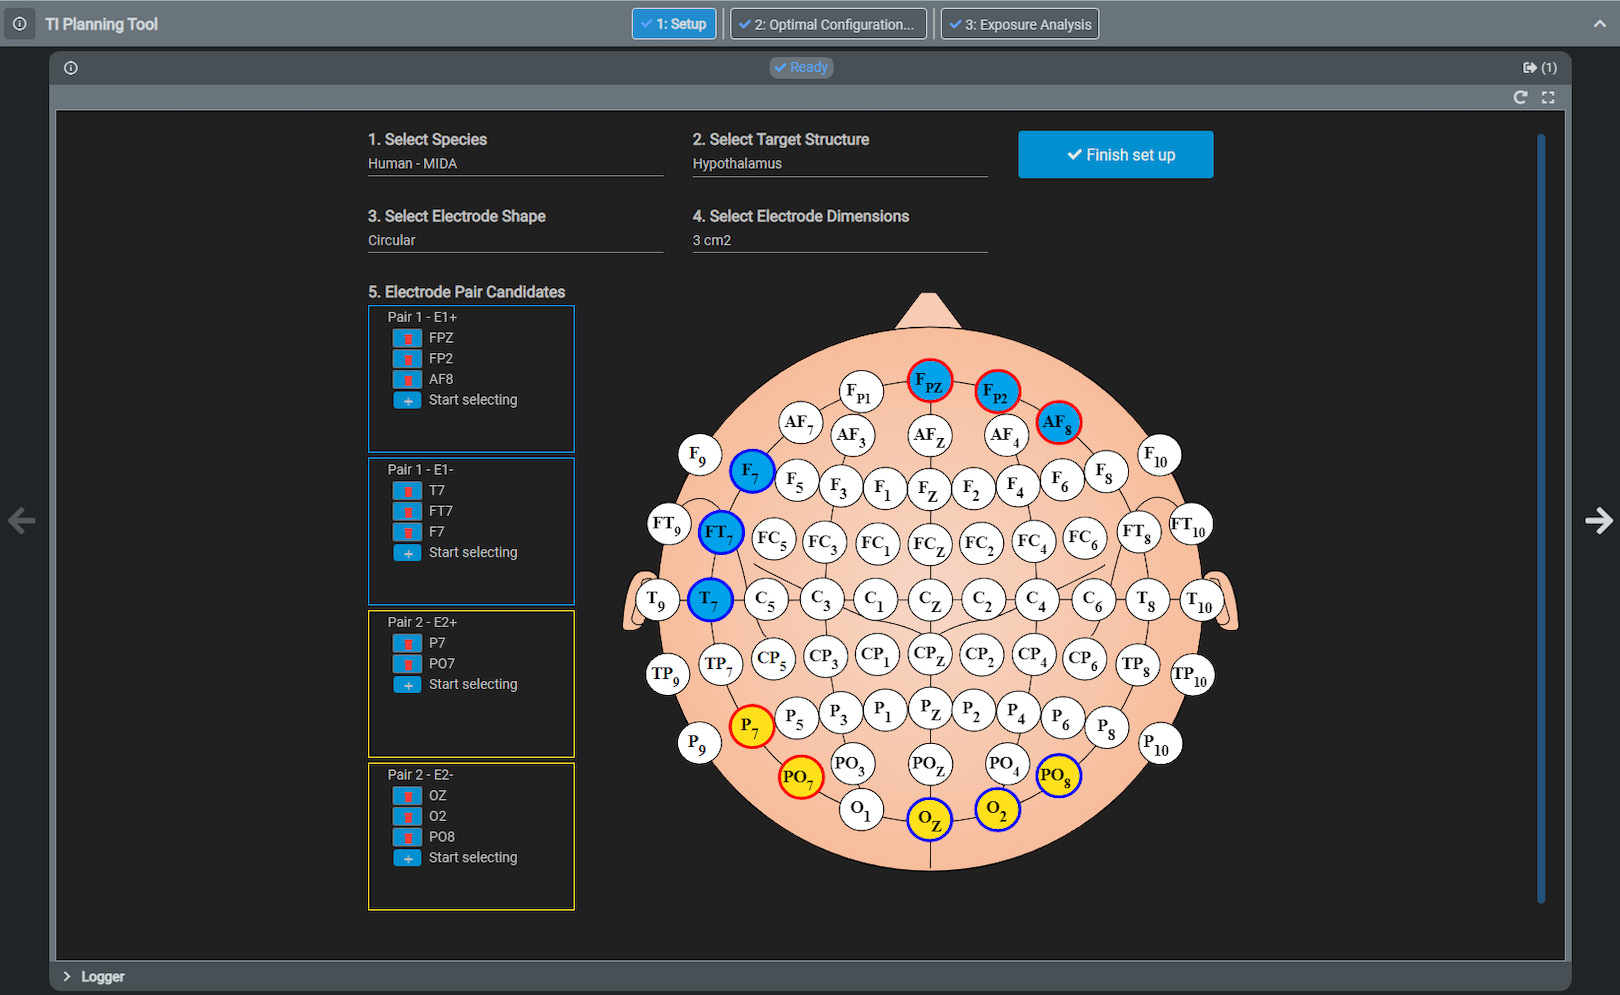
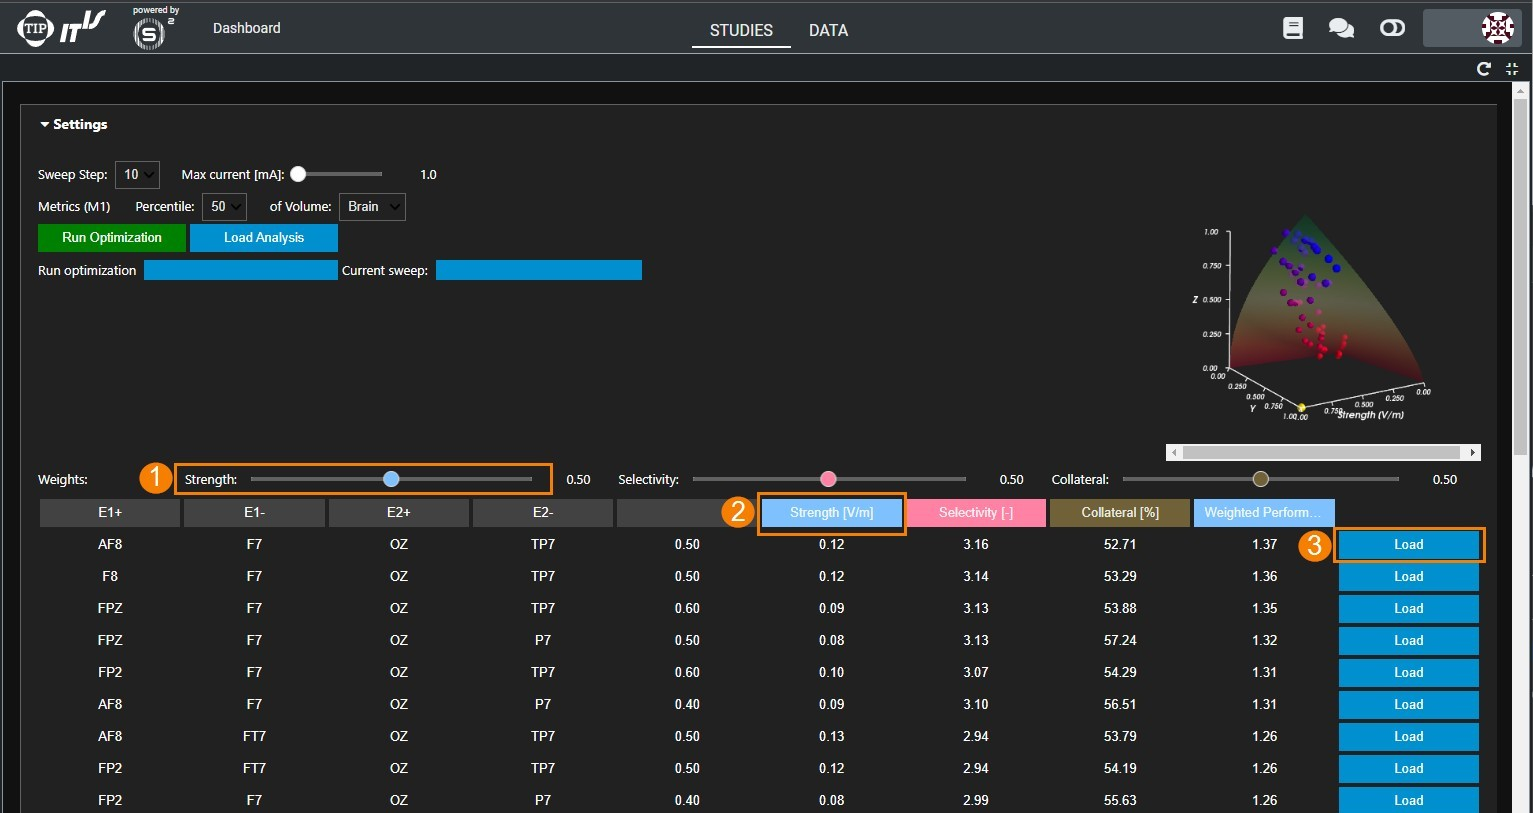
Merge pull request #49 from temporalinterference/testing
Testing

Pull request: Testing
TIP V5

diff --git a/content/cards/Publications/modal.md b/content/cards/Publications/modal.md
@@ -3,9 +3,9 @@ id: Publications
 ---
 # Selected Publications
 
-Missey F *et al. Non-invasive temporal interference stimulation of the hippocampus suppresses epileptic biomarkers in patients with Epilepsy: Biophysical differences between kilohertz and amplitude modulated stimulation.* Brain Stimul. 2026; 19(1):102981. [doi: 10.1016/j.brs.2025.11.008](https://www.sciencedirect.com/science/article/pii/S1935861X25003791?via%3Dihub)
+Missey F *et al. Non-invasive temporal interference stimulation of the hippocampus suppresses epileptic biomarkers in patients with Epilepsy: Biophysical differences between kilohertz and amplitude modulated stimulation.* Brain Stimul. 2026; 19(1):102981. [doi:10.1016/j.brs.2025.11.008](https://www.sciencedirect.com/science/article/pii/S1935861X25003791?via%3Dihub)
 
-Antal A *et al. Low intensity transcranial electric stimulation: Safety, ethical, legal regulatory and application guidelines (2017–2025: An update) – endorsed by the European Society for Brain Stimulation (ESBS) and by the International Federation for Clinical Neurophysiology (IFCN).* Clin Neurophysiol. 2025. [doi.org/10.1016/j.clinph.2025.2111436](https://www.sciencedirect.com/science/article/pii/S138824572501288X?via%3Dihub)
+Antal A *et al. Low intensity transcranial electric stimulation: Safety, ethical, legal regulatory and application guidelines (2017–2025: An update) – endorsed by the European Society for Brain Stimulation (ESBS) and by the International Federation for Clinical Neurophysiology (IFCN).* Clin Neurophysiol. 2025. [doi:10.1016/j.clinph.2025.2111436](https://www.sciencedirect.com/science/article/pii/S138824572501288X?via%3Dihub)
 
 Botzanowski B *et al. Focal control of non-invasive deep brain stimulation using multipolar temporal interference.* Bioelectron Med. 2025; 11:7. [doi:10.1186/s42234-025-00169-6](https://bioelecmed.biomedcentral.com/articles/10.1186/s42234-025-00169-6)
 
@@ -13,67 +13,69 @@ Cassarà AM *et al. Recommendations for the safe application of temporal interfe
 
 Cassarà AM *et al. Recommendations for the safe application of temporal interference stimulation in the human brain part II: Biophysics, dosimetry, and safety recommendations.* Bioelectromagnetics. 2025; 46:e22536. [doi:10.1002/bem.22536](https://onlinelibrary.wiley.com/doi/10.1002/bem.22536)
 
-Karimi F *et al. Safety of Non-invasive brain stimulation in patients with implants: A computational risk assessment.* J Neural Eng. 2025; 22:016039. [doi: 10.1088/1741-2552/ad8efa](https://iopscience.iop.org/article/10.1088/1741-2552/ad8efa)
+Demchenko I *et al. Human applications of transcranial temporal interference stimulation: A systematic review.* Brain Stimul. 2025; 18(6):2054–2066. [doi:10.1016/j.brs.2025.10.023](https://www.brainstimjrnl.com/article/S1935-861X(25)00369-9/fulltext)
 
-Lamoš M *et al. Noninvasive temporal interference stimulation of the subthalamic nucleus in Parkinson’s disease reduces beta activity.* Mov. Disord. 2025; 40(6):1051–1060. [doi: 10.1002/mds.30134](https://movementdisorders.onlinelibrary.wiley.com/doi/pdfdirect/10.1002/mds.30134)
+Karimi F *et al. Safety of non-invasive brain stimulation in patients with implants: A computational risk assessment.* J Neural Eng. 2025; 22:016039. [doi:10.1088/1741-2552/ad8efa](https://iopscience.iop.org/article/10.1088/1741-2552/ad8efa)
 
-Mansourinezhad P *et al. Systematic review of experimental studies in humans on transcranial temporal interference stimulation.* J Neural Eng. 2025; 22:051001. [doi: 10.1088/1741-2552/ae0524](https://iopscience.iop.org/article/10.1088/1741-2552/ae0524)
+Lamoš M *et al. Noninvasive temporal interference stimulation of the subthalamic nucleus in Parkinson’s disease reduces beta activity.* Mov. Disord. 2025; 40(6):1051–1060. [doi:10.1002/mds.30134](https://movementdisorders.onlinelibrary.wiley.com/doi/pdfdirect/10.1002/mds.30134)
 
-Opančar A *et al. The same biophysical mechanism is involved in both temporal interference and direct kHz stimulation of peripheral nerves.* Nat Commun. 2025; 16:9006 [doi.org/10.1038/s41467-025-64059-w](https://www.nature.com/articles/s41467-025-64059-w)
+Mansourinezhad P *et al. Systematic review of experimental studies in humans on transcranial temporal interference stimulation.* J Neural Eng. 2025; 22:051001. [doi:10.1088/1741-2552/ae0524](https://iopscience.iop.org/article/10.1088/1741-2552/ae0524)
 
-Peterchev AV. *One's trash is another's treasure: Subthreshold kilohertz brain modulation as a side effect and as an intervention.* Brain Stimul. 2025; 18(3):P622-623. [doi: 10.1016/j.brs.2025.03.004](https://www.brainstimjrnl.com/article/S1935-861X(25)00057-9/fulltext)
+Opančar A *et al. The same biophysical mechanism is involved in both temporal interference and direct kHz stimulation of peripheral nerves.* Nat Commun. 2025; 16:9006 [doi:10.1038/s41467-025-64059-w](https://www.nature.com/articles/s41467-025-64059-w)
 
-Rektorová I *et al. Non-invasive brain stimulation: Current and future applications in neurology.* Nature Rev Neurol. 2025; 21:669–686. [doi: 10.1038/s41582-025-01137-z](https://www.nature.com/articles/s41582-025-01137-z)
+Peterchev AV. *One's trash is another's treasure: Subthreshold kilohertz brain modulation as a side effect and as an intervention.* Brain Stimul. 2025; 18(3):P622-623. [doi:10.1016/j.brs.2025.03.004](https://www.brainstimjrnl.com/article/S1935-861X(25)00057-9/fulltext)
 
-Semenov I *et al. Excitation and polarization of isolated neurons by high-frequency sine waves for temporal interference stimulation.* Cell Rep Phys Sci. 2025; 6:102660. [doi: 10.1016/j.xcrp.[phone redacted]](https://www.sciencedirect.com/science/article/pii/S2666386425002590)
+Rektorová I *et al. Non-invasive brain stimulation: Current and future applications in neurology.* Nature Rev Neurol. 2025; 21:669–686. [doi:10.1038/s41582-025-01137-z](https://www.nature.com/articles/s41582-025-01137-z)
 
-Wang M *et al. Transcranial temporal interference stimulation precisely targets deep brain regions to regulate eye movements.* Neurosci Bull. 2025; 41:1390–1402. [doi: 10.1007/s12264-025-01387-3](https://link.springer.com/article/10.1007/s12264-025-01387-3)
+Semenov I *et al. Excitation and polarization of isolated neurons by high-frequency sine waves for temporal interference stimulation.* Cell Rep Phys Sci. 2025; 6:102660. [doi:10.1016/j.xcrp.[phone redacted]](https://www.sciencedirect.com/science/article/pii/S2666386425002590)
 
-Caldas-Martinez S *et al. Cell-specific effects of temporal interference stimulation on cortical function.* Commun Biol. 2024; 7:1076. [doi: 10.1038/s42003-[phone redacted]](https://www.nature.com/articles/s42003-[phone redacted]-y)
+Wang M *et al. Transcranial temporal interference stimulation precisely targets deep brain regions to regulate eye movements.* Neurosci Bull. 2025; 41:1390–1402. [doi:10.1007/s12264-025-01387-3](https://link.springer.com/article/10.1007/s12264-025-01387-3)
 
-Liu R *et al. Temporal interference stimulation targets deep primate brain.* NeuroImage. 2024; 291:120581. [doi: 10.1016/j.neuroimage.2024.120581](https://www.sciencedirect.com/science/article/pii/S1053811924000764)
+Caldas-Martinez S *et al. Cell-specific effects of temporal interference stimulation on cortical function.* Commun Biol. 2024; 7:1076. [doi:10.1038/s42003-[phone redacted]](https://www.nature.com/articles/s42003-[phone redacted]-y)
 
-Vassiliadis P *et al. Safety, tolerability and blinding efficiency of non-invasive deep transcranial temporal interference stimulation: First experience from more than 250 sessions.* J Neural Eng. 2024; 21:024001. [doi: 10.1088/1741-2552/ad2d32](https://iopscience.iop.org/article/10.1088/1741-2552/ad2d32)
+Liu R *et al. Temporal interference stimulation targets deep primate brain.* NeuroImage. 2024; 291:120581. [doi:10.1016/j.neuroimage.2024.120581](https://www.sciencedirect.com/science/article/pii/S1053811924000764)
 
-Vieira PG *et al. Temporal interference stimulation disrupts spike timing in the primate brain.* Nature Commun. 2024; 15:4558. [doi: 10.1038/s41467-024-48962](https://www.nature.com/articles/s41467-024-48962-2)
+Vassiliadis P *et al. Safety, tolerability and blinding efficiency of non-invasive deep transcranial temporal interference stimulation: First experience from more than 250 sessions.* J Neural Eng. 2024; 21:024001. [doi:10.1088/1741-2552/ad2d32](https://iopscience.iop.org/article/10.1088/1741-2552/ad2d32)
 
-Wang Y *et al. The safety and efficacy of applying a high-current temporal interference electrical stimulation in humans.* Front Hum Neurosci. 2024; 18:1484593. [doi: 10.3389/fnhum.2024.1484593](https://www.frontiersin.org/journals/human-neuroscience/articles/10.3389/fnhum.2024.1484593/full)
+Vieira PG *et al. Temporal interference stimulation disrupts spike timing in the primate brain.* Nature Commun. 2024; 15:4558. [doi:10.1038/s41467-024-48962](https://www.nature.com/articles/s41467-024-48962-2)
 
-Budde RB *et al. Temporal interference current stimulation in peripheral nerves is not driven by envelope extraction.* J Neural Eng. 2023; 20(2):026041. [doi: 10.1088/1741-2552/acc6f1](https://iopscience.iop.org/article/10.1088/1741-2552/acc6f1/meta)
+Wang Y *et al. The safety and efficacy of applying a high-current temporal interference electrical stimulation in humans.* Front Hum Neurosci. 2024; 18:1484593. [doi:10.3389/fnhum.2024.1484593](https://www.frontiersin.org/journals/human-neuroscience/articles/10.3389/fnhum.2024.1484593/full)
 
-Iszak K *et al. Why temporal inference stimulation may fail in the human brain: A pilot research study.* Biomedicines. 2023; 11(7):1813. [doi: 10.3390/biomedicines11071813](https://www.mdpi.com/2227-9059/11/7/1813)
+Budde RB *et al. Temporal interference current stimulation in peripheral nerves is not driven by envelope extraction.* J Neural Eng. 2023; 20(2):026041. [doi:10.1088/1741-2552/acc6f1](https://iopscience.iop.org/article/10.1088/1741-2552/acc6f1/meta)
 
-Violante IR *et al. Non-invasive temporal interference electrical stimuation of the human hippocampus.* Nat Neurosci. 2023; 26:1994–2004. [doi: 10.1038/s41593-023-01456-8](https://www.nature.com/articles/s41593-023-01456-8)
+Iszak K *et al. Why temporal inference stimulation may fail in the human brain: A pilot research study.* Biomedicines. 2023; 11(7):1813. [doi:10.3390/biomedicines11071813](https://www.mdpi.com/2227-9059/11/7/1813)
 
-Wessel MJ *et al. Noninvasive theta-burst stimulation of the human striatum enhances striatal activity and motor skill learning.* Nat Neurosci. 2023; 26:2005–2016. [doi: 10.1038/s41593-023-01457-7](https://www.nature.com/articles/s41593-023-01457-7)
+Violante IR *et al. Non-invasive temporal interference electrical stimuation of the human hippocampus.* Nat Neurosci. 2023; 26:1994–2004. [doi:10.1038/s41593-023-01456-8](https://www.nature.com/articles/s41593-023-01456-8)
 
-Acerbo E *et al. Focal non-invasive deep-brain stimulation with temporal interference for the suppression of epileptic biomarkers.* Front Neurosci. 2022; 16:945221. [doi: 10.3389/fnins.2022.945221](https://www.frontiersin.org/journals/neuroscience/articles/10.3389/fnins.2022.945221/full)
+Wessel MJ *et al. Noninvasive theta-burst stimulation of the human striatum enhances striatal activity and motor skill learning.* Nat Neurosci. 2023; 26:2005–2016. [doi:10.1038/s41593-023-01457-7](https://www.nature.com/articles/s41593-023-01457-7)
 
-Botzanowski B *et al. Noninvasive stimulation of peripheral nerves using temporally-interfering electrical fields.* Adv Healthc Mater. 2022; 11(17):e2200075. [doi: 10.1002/adhm.202200075](https://onlinelibrary.wiley.com/doi/full/10.1002/adhm.202200075)
+Acerbo E *et al. Focal non-invasive deep-brain stimulation with temporal interference for the suppression of epileptic biomarkers.* Front Neurosci. 2022; 16:945221. [doi:10.3389/fnins.2022.945221](https://www.frontiersin.org/journals/neuroscience/articles/10.3389/fnins.2022.945221/full)
 
-Lee S *et al. Multipair transcranial temporal interference stimulation for improved focalized stimulation of deep brain regions: A simulation study.* Comput Biol Med. 2022; 143:105337. [doi: 10.1016/j.compbiomed.2022.105337](https://www.sciencedirect.com/science/article/abs/pii/S0010482522001299?via%3Dihub)
+Botzanowski B *et al. Noninvasive stimulation of peripheral nerves using temporally-interfering electrical fields.* Adv Healthc Mater. 2022; 11(17):e2200075. [doi:10.1002/adhm.202200075](https://onlinelibrary.wiley.com/doi/full/10.1002/adhm.202200075)
 
-Liu R *et al. A noninvasive deep brain stimulation method via temporal-spatial interference magneto-acoustic effect: Simulation and experimental validation.* IEEE Trans Ultrason Ferroelectr Freq Control. 2022; 69(8):2474-2483. [doi: 10.1109/TUFFC.2022.3187748](https://ieeexplore.ieee.org/document/9812716)
+Lee S *et al. Multipair transcranial temporal interference stimulation for improved focalized stimulation of deep brain regions: A simulation study.* Comput Biol Med. 2022; 143:105337. [doi:10.1016/j.compbiomed.2022.105337](https://www.sciencedirect.com/science/article/abs/pii/S0010482522001299?via%3Dihub)
 
-Piao Y *et al. Safety evaluation of employing temporal interference transcranial alternating current stimulation in human studies.* Brain Sci. 2022; 12(9):1194. [doi: 10.3390/brainsci12091194](https://www.mdpi.com/2076-3425/12/9/1194)
+Liu R *et al. A noninvasive deep brain stimulation method via temporal-spatial interference magneto-acoustic effect: Simulation and experimental validation.* IEEE Trans Ultrason Ferroelectr Freq Control. 2022; 69(8):2474-2483. [doi:10.1109/TUFFC.2022.3187748](https://ieeexplore.ieee.org/document/9812716)
 
-Esmaeilpour Z *et al. Temporal interference stimulation targets deep brain regions by modulating neural oscillations.* Brain Stimul. 2021; 14(1):55-65. [doi: 10.1016/j.brs.2020.11.007](https://www.brainstimjrnl.com/article/S1935-861X(20)30290-4/fulltext)
+Piao Y *et al. Safety evaluation of employing temporal interference transcranial alternating current stimulation in human studies.* Brain Sci. 2022; 12(9):1194. [doi:10.3390/brainsci12091194](https://www.mdpi.com/2076-3425/12/9/1194)
 
-Gomez-Tames J *et al. Multiscale computational model reveals nerve response in a mouse model for temporal interference brain stimulation.* Front Neurosci. 2021; 15:684465. [doi: 10.3389/fnins.2021.684465](https://www.frontiersin.org/journals/neuroscience/articles/10.3389/fnins.2021.684465/full)
+Esmaeilpour Z *et al. Temporal interference stimulation targets deep brain regions by modulating neural oscillations.* Brain Stimul. 2021; 14(1):55-65. [doi:10.1016/j.brs.2020.11.007](https://www.brainstimjrnl.com/article/S1935-861X(20)30290-4/fulltext)
 
-Howell B, McIntyre CC. *Feasibility of interferential and pulsed transcranial electrical stimulation for neuromodulation at the human scale.* Neuromodulation. 2021; 24(5):843-853. [doi: 10.1111/ner.13137](https://www.neuromodulationjournal.org/article/S1094-7159(21)06186-9/abstract)
+Gomez-Tames J *et al. Multiscale computational model reveals nerve response in a mouse model for temporal interference brain stimulation.* Front Neurosci. 2021; 15:684465. [doi:10.3389/fnins.2021.684465](https://www.frontiersin.org/journals/neuroscience/articles/10.3389/fnins.2021.684465/full)
 
-Missey F *et al. Orientation of temporal interference for non-invasive deep brain stimulation in epilepsy.* Front Neurosci. 2021; 15:633988. [doi: 10.3389/fnins.2021.633988](https://www.frontiersin.org/journals/neuroscience/articles/10.3389/fnins.2021.633988/full)
+Howell B, McIntyre CC. *Feasibility of interferential and pulsed transcranial electrical stimulation for neuromodulation at the human scale.* Neuromodulation. 2021; 24(5):843-853. [doi:10.1111/ner.13137](https://www.neuromodulationjournal.org/article/S1094-7159(21)06186-9/abstract)
 
-Sunshine MD *et al. Restoration of breathing after opioid overdose and spinal cord injury using temporal interference stimulation.* Commun Biol. 2021; 4(1):107. [doi: 10.1038/s42003-020-01604-x](https://www.nature.com/articles/s42003-020-01604-x)
+Missey F *et al. Orientation of temporal interference for non-invasive deep brain stimulation in epilepsy.* Front Neurosci. 2021; 15:633988. [doi:10.3389/fnins.2021.633988](https://www.frontiersin.org/journals/neuroscience/articles/10.3389/fnins.2021.633988/full)
 
-von Conta J *et al. Interindividual variability of electric fields during transcranial temporal interference stimulation (tTIS).* Scientific Reports. 2021; 11:20357. [doi.org/10.1038/s41598-021-99749-0](https://www.nature.com/articles/s41598-021-99749-0)
+Sunshine MD *et al. Restoration of breathing after opioid overdose and spinal cord injury using temporal interference stimulation.* Commun Biol. 2021; 4(1):107. [doi:10.1038/s42003-020-01604-x](https://www.nature.com/articles/s42003-020-01604-x)
 
-Cao J, Grover P. *STIMULUS: Noninvasive dynamic patterns of neurostimulation using spatio-temporal interference.* IEEE Trans Biomed Eng. 2020; 67(3):726-737. [doi: 10.1109/TBME.2019.2919912](https://ieeexplore.ieee.org/document/8726149)
+von Conta J *et al. Interindividual variability of electric fields during transcranial temporal interference stimulation (tTIS).* Scientific Reports. 2021; 11:20357. [doi:10.1038/s41598-021-99749-0](https://www.nature.com/articles/s41598-021-99749-0)
 
-Li J *et al. Analytical and experimental investigation of temporal interference for selective neuromuscular activation.* IEEE Trans Neural Syst Rehabil Eng. 2020; 28(12):3100-3112. [doi: 10.1109/TNSRE.2020.3038025](https://ieeexplore.ieee.org/document/9259118)
+Cao J, Grover P. *STIMULUS: Noninvasive dynamic patterns of neurostimulation using spatio-temporal interference.* IEEE Trans Biomed Eng. 2020; 67(3):726-737. [doi:10.1109/TBME.2019.2919912](https://ieeexplore.ieee.org/document/8726149)
 
-Mirzakhalili E *et al. Biophysics of temporal interference stimulation.* Cell Syst. 2020; 11(6):557-572.e5. [doi: 10.1016/j.cels.[phone redacted]](https://www.sciencedirect.com/science/article/pii/S2405471220303720)
+Li J *et al. Analytical and experimental investigation of temporal interference for selective neuromuscular activation.* IEEE Trans Neural Syst Rehabil Eng. 2020; 28(12):3100-3112. [doi:10.1109/TNSRE.2020.3038025](https://ieeexplore.ieee.org/document/9259118)
+
+Mirzakhalili E *et al. Biophysics of temporal interference stimulation.* Cell Syst. 2020; 11(6):557-572.e5. [doi:10.1016/j.cels.[phone redacted]](https://www.sciencedirect.com/science/article/pii/S2405471220303720)
 
 Alekseichuk I *et al. Comparative modeling of transcranial magnetic and electric stimulation in mouse, monkey, and human.* Neuroimage. 2019; 194:136‐148. [doi:10.1016/j.neuroimage.2019.03.044](https://www.sciencedirect.com/science/article/abs/pii/S1053811919302320?via%3Dihub/)
 

diff --git a/content/cards/TIP/modal.md b/content/cards/TIP/modal.md
@@ -1,62 +1,78 @@
 ---
 id: TIP
 ---
-# TIP V4.0
+# TIP V5.0
 
 ## Temporal Interference Planning Tool of IT'IS
-The Temporal Interference Planning (TIP) tool Version 4.0 of the [IT'IS Foundation](https://itis.swiss) developed for TIBS-R provides an advanced modeling pipeline for electrode placement and stimulation targeting with the TIBS-R system, offering cloud-based simulations and interactive visualizations. Read more on the [IT'IS TI Planning webpage](https://itis.swiss/tools-and-systems/ti-planning/overview/).
 
-The latest version of our powerful TI stimulation planning tool brings major innovations to researchers worldwide:
+The Temporal Interference Planning (TIP) tool of the [IT'IS Foundation](https://itis.swiss), developed for TIBS-R, provides an advanced planning environment for temporal interference (TI) stimulation. TIP supports electrode placement, stimulation targeting, electromagnetic simulations, optimization, visualization, and analysis using established and personalized anatomical human and animal models. Read more on the [IT'IS TI Planning webpage](https://itis.swiss/tools-and-systems/ti-planning/overview/).
 
-* Automated Personalization: Our deep-learning model now automatically detects anatomical fiducials for consistent 10-10 electrode placement—no manual steps required
-  
-* New Optimization Engine: The surrogate-model-based (SuMo) optimizer uses artificial intelligence (AI) to explore the full electrode configuration space, delivering better results faster
-  
-* Speed and Performance Gains: Optimization is now twice as fast on average, with improved solution quality
-  
-* Improved Workflow: From drag-and-drop model upload to streamlined analysis, TIP V4.0 is more intuitive than ever
+TIP enables researchers to design and validate TI stimulation protocols without requiring deep expertise in computational modeling. It supports classic TI, multi-channel TI, and phase-modulation TI workflows, and is fully compatible with the TIBS-R system.
 
-## Personalized Optimization
+TIP V5.0 builds on the personalization and optimization capabilities introduced in previous versions and adds three major advances:
+
+* Privacy-First Personalization: Magnetic resonance imaging (MRI) processing can now be performed locally using the new offline personalizer. Raw MRI data stay on the user's computer; only the anonymized, segmented model is uploaded to TIP for cloud-based simulation and optimization.
+
+* Full Sim4Life Workbench Access: The Exposure Analysis step now provides access to a complete Sim4Life workbench, including modeling, simulation, and analysis functionality, with ready-to-use template projects for precomputed and personalized models.
+
+* ~5× Faster Optimization: The surrogate-model-based SuMo optimizer now runs approximately five times faster, reducing typical optimization times from about one hour to 5–10 minutes.
+
+TIP remains available through the TI Solutions Early Adopter Program and IT'IS research partnerships. Precomputed models can be explored without personalized simulation costs; personalized models require AWS simulation costs.
+
+## Privacy-First Personalization
 
 {{< modal-image tip_1.jpg >}}
 {{< /modal-image >}}
 
-Incorporate magnetic resonance imaging (MRI) and diffusion tensor imaging (DTI) data for individualized results, using automatic image processing to create tissue models with isotropic or anisotropic conductivity for simulations.
+Use subject-specific MRI and optional diffusion tensor imaging data to create personalized anatomical models for TI planning.
+
+With TIP V5.0, MRI processing can run locally using the offline personalizer. Raw MRI data stay on the user's computer; only the anonymized, segmented model is uploaded to TIP.
 
 ## Electromagnetic Simulations
 
 {{< modal-image tip_2.jpg >}}
 {{< /modal-image >}}
 
-Generate isotropic or anisotropic simulations and export optimization-ready files.
+Generate isotropic or anisotropic electromagnetic simulations using precomputed or personalized models.
+
+TIP prepares the field data needed for optimization, exposure assessment, and downstream analysis.
 
 ## Configuration
 
 {{< modal-image tip_3.jpg >}}
 {{< /modal-image >}}
 
-Select species, stimulation target, and electrode locations defined on the 10-10 system to narrow the configuration search space.
+Select the anatomical model, stimulation target, and threshold definitions.
+
+Standardized 10–10 electrode placement supports reproducible planning while keeping the optimization search space manageable.
 
 ## Optimal Configuration Identification
 
 {{< modal-image tip_4.jpg >}}
 {{< /modal-image >}}
 
-Explore high-performing exposure parameters with metrics and visualizations, and easily document findings.
+Identify high-performing electrode configurations with the SuMo optimizer.
 
-## Visualization
+In TIP V5.0, optimization is approximately five times faster, reducing typical runtimes from about one hour to 5–10 minutes.
+
+## Visualization and Post-Processing
 
 {{< modal-image tip_5.jpg >}}
 {{< /modal-image >}}
 
-Depict advanced phase modulation schemes and pulse shapes of the complete electric field and its x-, y-, and z-components.
+Visualize stimulation fields, phase modulation, pulse shapes, and field components.
 
-## Analysis
+
+## Full Sim4Life Exposure Analysis
 
 {{< modal-image tip_6.jpg >}}
 {{< /modal-image >}}
 
-Visualize and analyze selected conditions using Sim4Life (see [www.sim4life.swiss](https://sim4life.swiss/)).
+TIP V5.0 provides ready-to-use template projects with anatomical models, targets, electrodes, and preconfigured simulations for deeper exposure analysis in a full-featured Sim4Life instance, including rendering, masking, streamlines, derived quantities, and reporting. 
+
+## Access
+
+TIP V5.0 is available to members of the TI Solutions Early Adopter Program and IT'IS research partners. For access, support, or further information, contact [[email redacted]](mailto:[email redacted]) or [[email redacted]](mailto:[email redacted]).
 
 ## Disclaimer
 

diff --git a/content/cards/news-20260430-TIP-V5-0/modal.md b/content/cards/news-20260430-TIP-V5-0/modal.md
@@ -1,0 +1,17 @@
+---
+id: news-20260430-TIP-V5-0
+---
+# TIP V5.0 is Here – Privacy First, Full Sim4Life Power, 5× Faster
+
+Our partner [IT'IS](https://itis.swiss) has released the latest version of their powerful {{< modal-link TIP >}}Temporal Interference Planning tool{{< /modal-link >}}, TIP V5.0!
+
+What's new in TIP V5.0?
+
+* Offline personalizer: Run magnetic resonance imaging processing locally with Sim4Life, uploading only fully anonymized models to the cloud
+* Full Sim4Life power: Access all modeling, simulation, and analysis tools, with template projects for all precomputed and personalized models
+* ~5× faster surrogate-model-based optimizer:  Comprehensive optimizations that previously required ~1 hour can now be completed in 5–10 minutes
+
+TIP V5.0 is available to members of TI Solutions {{< modal-link Early-Adopter-Program >}}Early Adopter Program{{< /modal-link >}}.
+
+{{< modal-image TIP-V5-visual.jpg >}}
+{{< /modal-image >}}

diff --git a/content/cards/news-20260430-TIP-V5-0/index.md b/content/cards/news-20260430-TIP-V5-0/index.md
@@ -1,0 +1,7 @@
+---
+title: TIP V5.0 is Here – Privacy First, Full Sim4Life Power, 5× Faster
+
+---
+May 05, 2026
+
+Our partner [IT'IS](https://itis.swiss) has released the latest version of their powerful {{< modal-link TIP >}}Temporal Interference Planning tool{{< /modal-link >}}, TIP V5.0!

diff --git a/content/cards/Publications/index.md b/content/cards/Publications/index.md
@@ -2,8 +2,8 @@
 title: Selected Publications
 ---
 
-Missey F *et al. Non-invasive temporal interference stimulation of the hippocampus suppresses epileptic biomarkers in patients with Epilepsy: Biophysical differences between kilohertz and amplitude modulated stimulation.* Brain Stimul. 2026; 19(1):102981. [doi: 10.1016/j.brs.2025.11.008](https://www.sciencedirect.com/science/article/pii/S1935861X25003791?via%3Dihub)
+Missey F *et al. Non-invasive temporal interference stimulation of the hippocampus suppresses epileptic biomarkers in patients with Epilepsy: Biophysical differences between kilohertz and amplitude modulated stimulation.* Brain Stimul. 2026; 19(1):102981. [doi:10.1016/j.brs.2025.11.008](https://www.sciencedirect.com/science/article/pii/S1935861X25003791?via%3Dihub)
 
-Antal A *et al. Low intensity transcranial electric stimulation: Safety, ethical, legal regulatory and application guidelines (2017–2025: An update) – endorsed by the European Society for Brain Stimulation (ESBS) and by the International Federation for Clinical Neurophysiology (IFCN).* Clin Neurophysiol. 2025. [doi.org/10.1016/j.clinph.2025.2111436](https://www.sciencedirect.com/science/article/pii/S138824572501288X?via%3Dihub)
+Antal A *et al. Low intensity transcranial electric stimulation: Safety, ethical, legal regulatory and application guidelines (2017–2025: An update) – endorsed by the European Society for Brain Stimulation (ESBS) and by the International Federation for Clinical Neurophysiology (IFCN).* Clin Neurophysiol. 2025. [doi:10.1016/j.clinph.2025.2111436](https://www.sciencedirect.com/science/article/pii/S138824572501288X?via%3Dihub)
 
 Botzanowski B *et al. Focal control of non-invasive deep brain stimulation using multipolar temporal interference.* Bioelectron Med. 2025; 11:7. [doi:10.1186/s42234-025-00169-6](https://bioelecmed.biomedcentral.com/articles/10.1186/s42234-025-00169-6)

diff --git a/content/_index.md b/content/_index.md
@@ -24,6 +24,7 @@ News
 {{< /section >}}
 
 {{< card-holder >}}
+{{< card news-20260430-TIP-V5-0 >}}
 {{< card news-20260407-Z43-Newsquarter-Q1 >}}
 {{< card news-20260115-TIBS-R-MRI-Filter-Solutions >}}
 {{< card news-20251125-Missey-Brain-Stimulation >}}